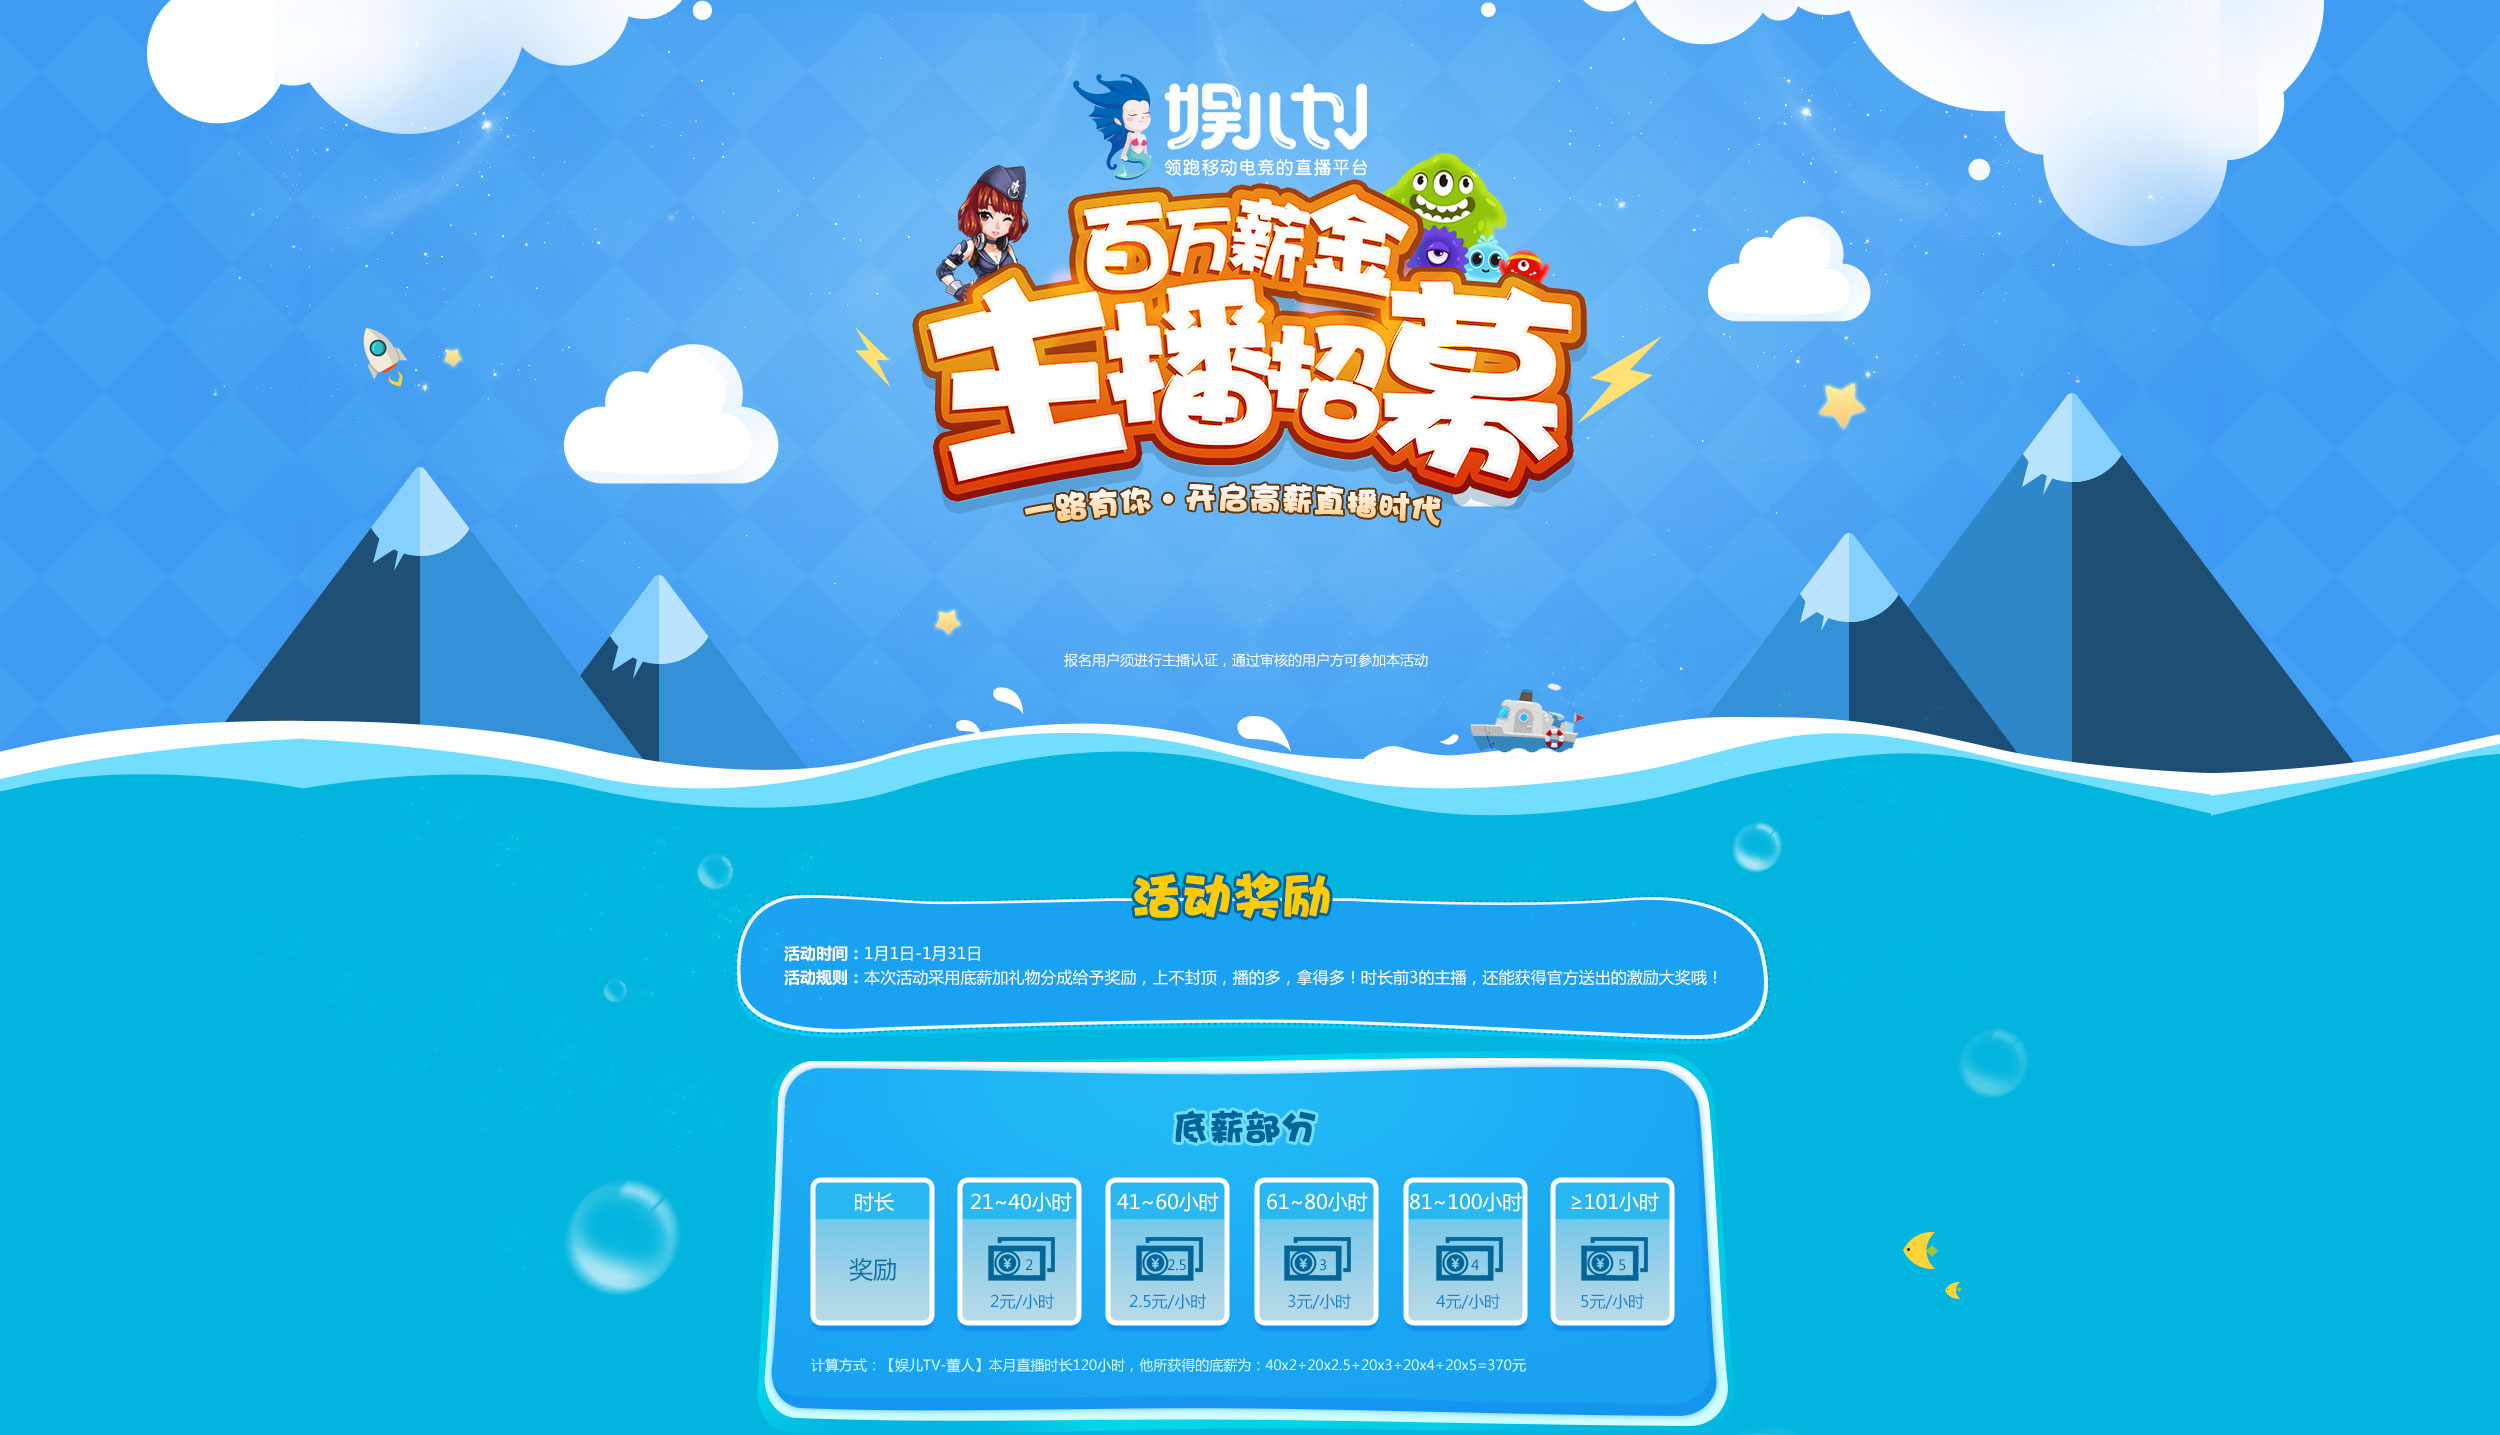
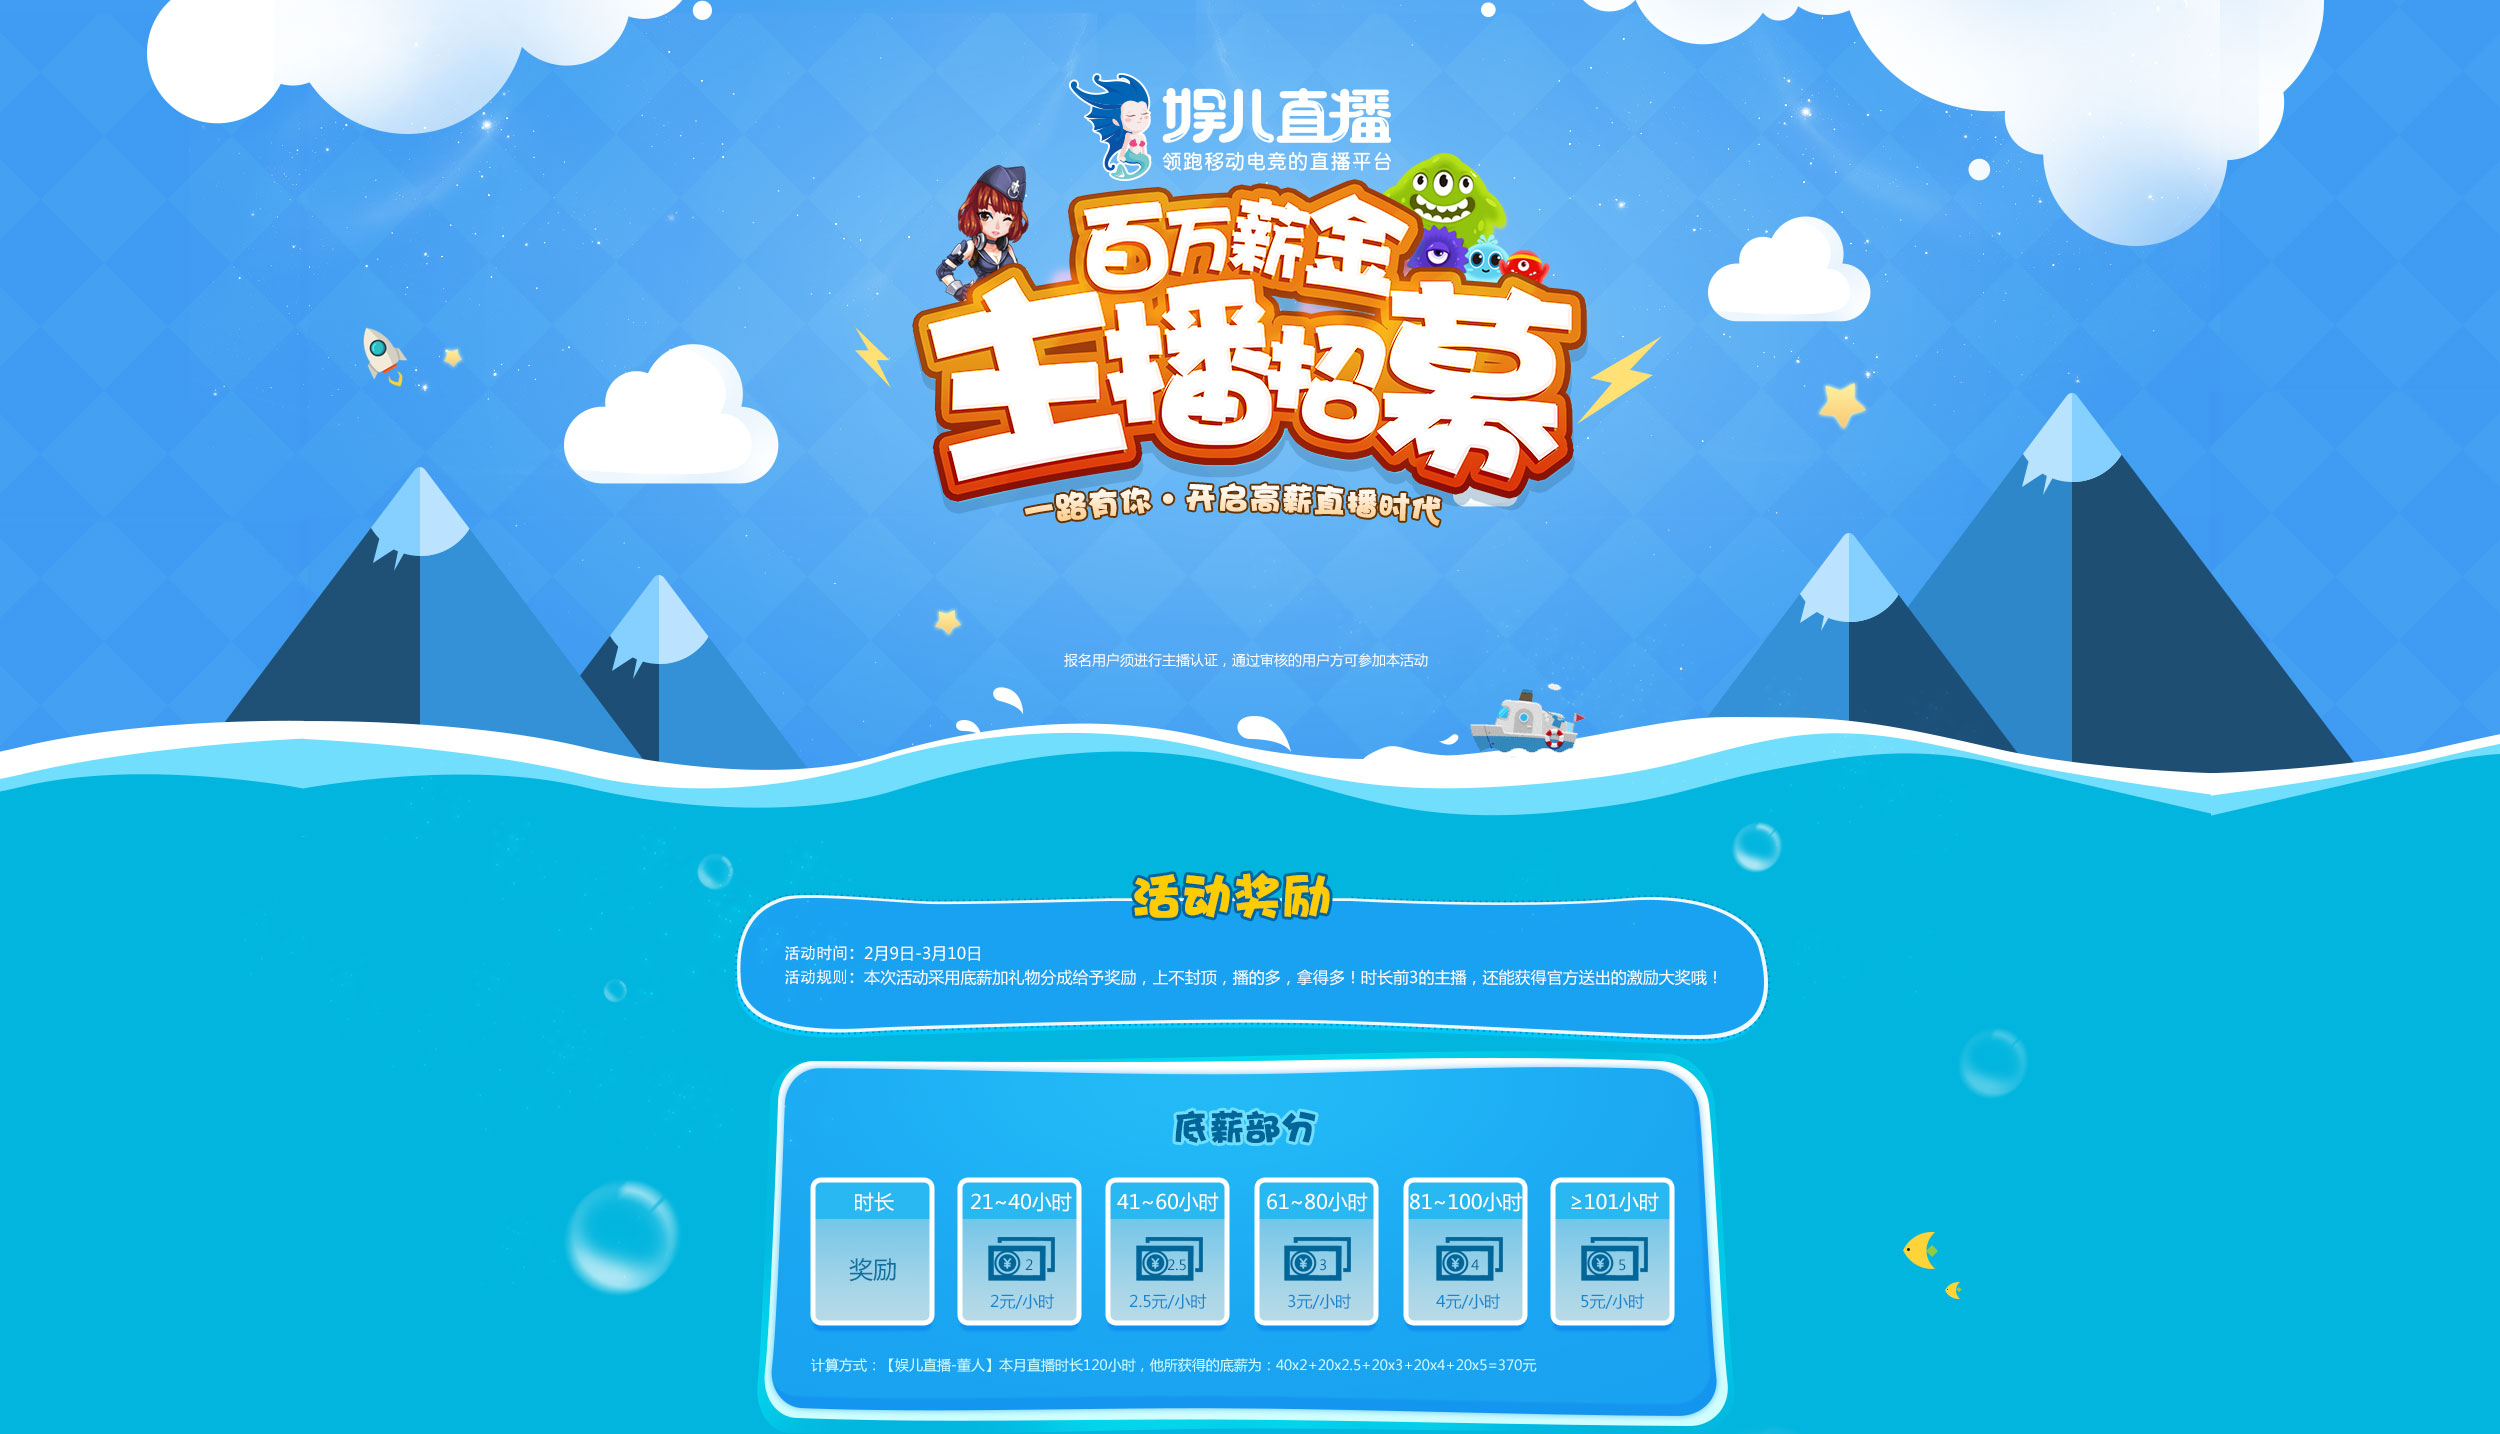
主播招募活动调整

diff --git a/server/views/activity/anchorRecruit.html b/server/views/activity/anchorRecruit.html
@@ -29,6 +29,14 @@
 		.top{
 			position: relative;
 		}
+		.acTime{
+			position: absolute;
+			width: 100%;
+			bottom: 72px;
+			text-align: center;
+			color:#fff;
+			font-size: 14px;
+		}
 		.join{
 			position: absolute;
 			bottom: 0;
@@ -146,8 +154,8 @@
 			appId: 'wxf96f728533f32fa8',
 			ticket: '{{ticket}}',
 			title: '娱儿直播百万薪金招募令！',		
-			imgUrl: 'http://img.wangyuhudong.com/uploads/imgs/live/yuerlogo.png',
-			desc: '新年谁还抢红包？娱儿主播招募百万薪金等你瓜分！'
+			imgUrl: 'http://img.wangyuhudong.com/uploads/imgs/live/2017/yuerlogo.png',
+			desc: '娱儿直播2月主播招募令，百万薪金等你瓜分！'
 		})
 	</script>
 </head>
@@ -155,6 +163,7 @@
 	<div class="m-recruit">
 		<div class="top">
 			<img src="/activity/images/mrecruit1.jpg" alt="">
+			<p class="acTime">活动时间：2月9日-3月10日</p>
 			<a href="https://yuertvfile.wangyuhudong.com" class="join">我要报名</a>
 		</div>
 		<img src="/activity/images/mrecruit2.jpg" alt="">
@@ -222,7 +231,8 @@
 			var parm={
 				userId:userId,
 				token:token,
-				type:type
+				type:type,
+				id:3
 			}
 			$.ajax({
 			    method: "GET",
@@ -259,32 +269,32 @@
 		
 
 		// 报名
-		// $('.join').click(function(e){
-		// 	if($('.join').html()=='我要报名' && ua.match(/YuertvBrowser/i)=="yuertvbrowser"){
-		// 		e.preventDefault();
-		// 		if(userId && token){
-		// 			engaged(1);
-		// 		}else{
-		// 			window.location.href = "yuertvopen://login";
-		// 		}
-		// 	}
-		// })
-
-		
 		$('.join').click(function(e){
 			if($('.join').html()=='我要报名' && ua.match(/YuertvBrowser/i)=="yuertvbrowser"){
 				e.preventDefault();
-				// if(ua.match(/android/i)){
-				// 	if(userId && token){
-				// 		engaged(1);
-				// 	}else{
-				// 		window.location.href = "yuertvopen://login";
-				// 	}
-				// }else{
-					$('.form-mask').show();
-				// }
-			}				
+				if(userId && token){
+					engaged(1);
+				}else{
+					window.location.href = "yuertvopen://login";
+				}
+			}
 		})
+
+		
+		// $('.join').click(function(e){
+		// 	if($('.join').html()=='我要报名' && ua.match(/YuertvBrowser/i)=="yuertvbrowser"){
+		// 		e.preventDefault();
+		// 		// if(ua.match(/android/i)){
+		// 		// 	if(userId && token){
+		// 		// 		engaged(1);
+		// 		// 	}else{
+		// 		// 		window.location.href = "yuertvopen://login";
+		// 		// 	}
+		// 		// }else{
+		// 			$('.form-mask').show();
+		// 		// }
+		// 	}				
+		// })
 
 		$('.submit').click(function(e){
 			e.preventDefault();

diff --git a/server/routes/index.js b/server/routes/index.js
@@ -306,10 +306,6 @@ router.get('/center/host', function(req, res, next) {
     res.render('center/host', { title: "我要当主播" ,index:5,islogin:islogin});
 });
 
-router.get('/helpcenter', function(req, res, next) {
-    res.render('helpcenter', { title: "帮助中心" });
-});
-
 router.get('/alipay', function(req, res, next) {
     var id = req.url.split('=')[1];
     var islogin = false;
